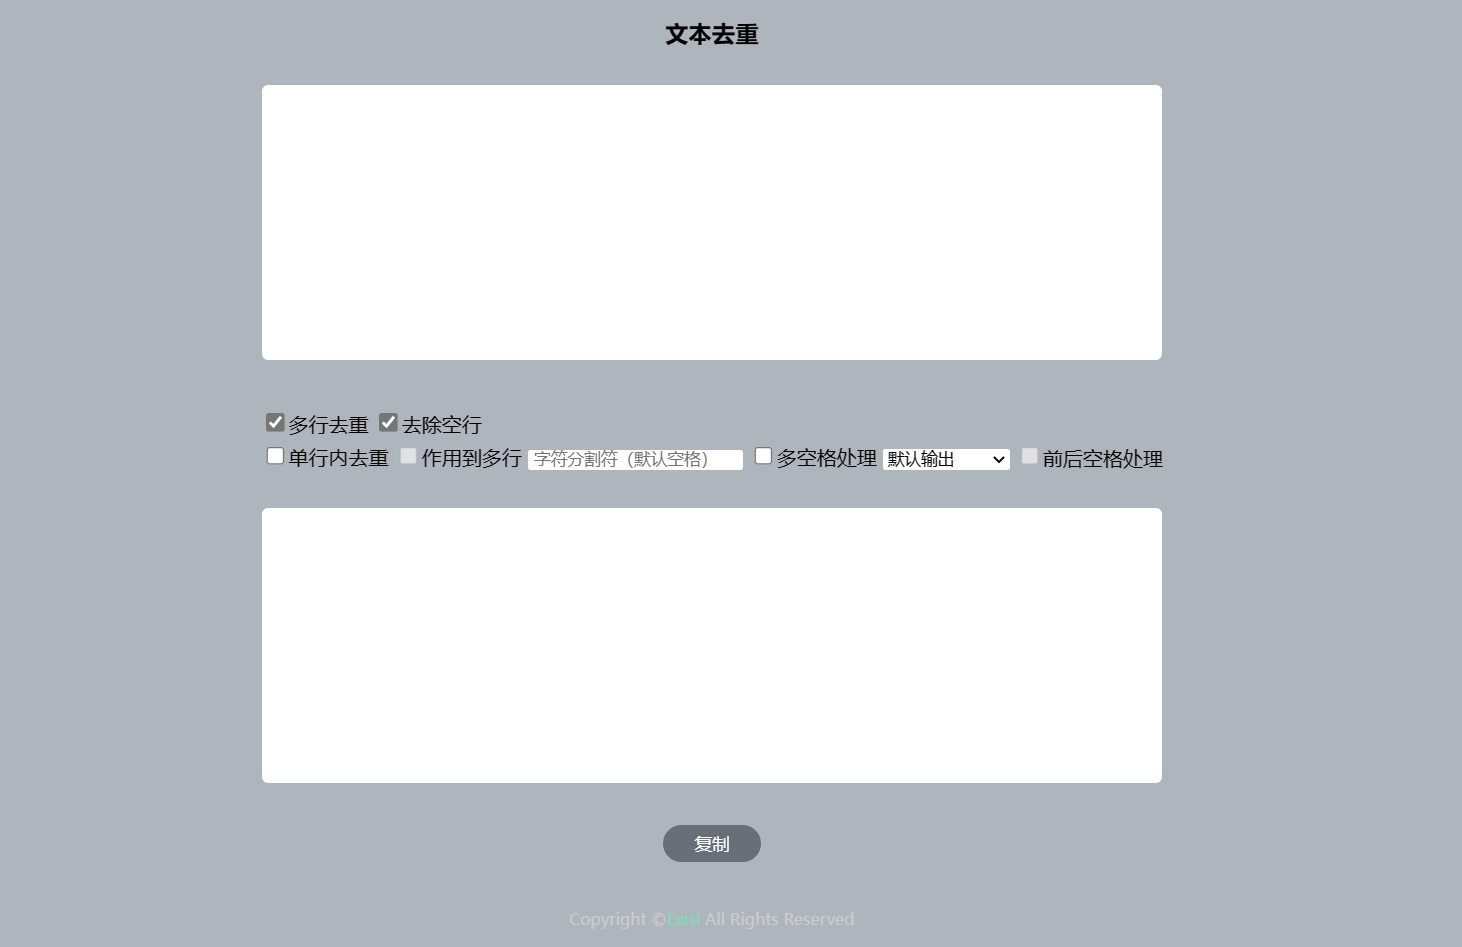
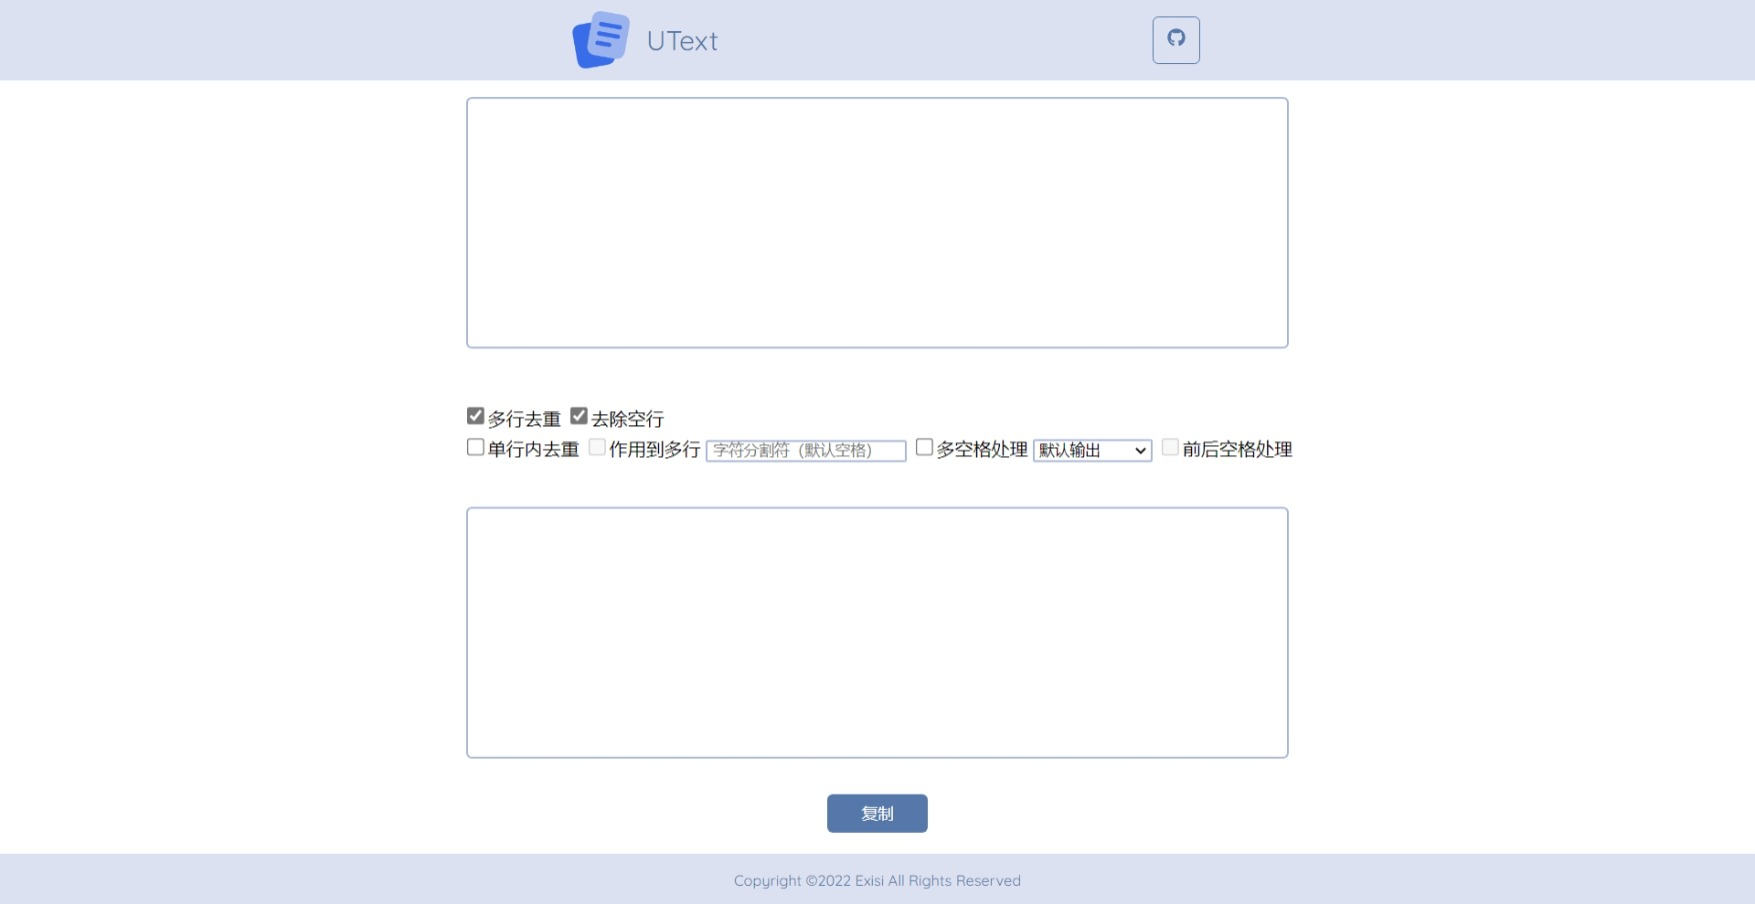
🌈 style(style.css): 优化布局样式

diff --git a/index.html b/index.html
@@ -1,75 +1,73 @@
 <!DOCTYPE html>
 <html lang="en">
-	<head>
-		<meta charset="UTF-8" />
-		<meta http-equiv="X-UA-Compatible" content="IE=edge" />
-		<meta name="viewport" content="width=device-width, initial-scale=1.0" />
-		<title>UText - 文本去重工具</title>
-		<link rel="shortcut icon" href="./favicon.ico" type="image/x-icon" />
-		<link rel="stylesheet" href="./css/style.css" />
-	</head>
-	<body>
-		<h3>文本去重</h3>
+
+<head>
+	<meta charset="UTF-8" />
+	<meta http-equiv="X-UA-Compatible" content="IE=edge" />
+	<meta name="viewport" content="width=device-width, initial-scale=1.0" />
+	<title>UText - 文本去重工具</title>
+	<link rel="shortcut icon" href="./favicon.ico" type="image/x-icon" />
+	<link rel="stylesheet" href="./css/style.css" />
+</head>
+
+<body>
+	<div class="header">
+		<div class="left">
+			<img src="./favicon.ico">
+			<span>UText</span>
+		</div>
+		<div class="right">
+			<a target="_blank" rel="noopener" class="chakra-link chakra-button css-15pwpr1" aria-label="GitHub"
+				href="https://github.com/Exisi/UText">
+				<svg stroke="currentColor" fill="currentColor" stroke-width="0" viewBox="0 0 496 512" aria-hidden="true"
+					focusable="false" height="1em" width="1em" xmlns="http://www.w3.org/2000/svg">
+					<path
+						d="M165.9 397.4c0 2-2.3 3.6-5.2 3.6-3.3.3-5.6-1.3-5.6-3.6 0-2 2.3-3.6 5.2-3.6 3-.3 5.6 1.3 5.6 3.6zm-31.1-4.5c-.7 2 1.3 4.3 4.3 4.9 2.6 1 5.6 0 6.2-2s-1.3-4.3-4.3-5.2c-2.6-.7-5.5.3-6.2 2.3zm44.2-1.7c-2.9.7-4.9 2.6-4.6 4.9.3 2 2.9 3.3 5.9 2.6 2.9-.7 4.9-2.6 4.6-4.6-.3-1.9-3-3.2-5.9-2.9zM244.8 8C106.1 8 0 113.3 0 252c0 110.9 69.8 205.8 169.5 239.2 12.8 2.3 17.3-5.6 17.3-12.1 0-6.2-.3-40.4-.3-61.4 0 0-70 15-84.7-29.8 0 0-11.4-29.1-27.8-36.6 0 0-22.9-15.7 1.6-15.4 0 0 24.9 2 38.6 25.8 21.9 38.6 58.6 27.5 72.9 20.9 2.3-16 8.8-27.1 16-33.7-55.9-6.2-112.3-14.3-112.3-110.5 0-27.5 7.6-41.3 23.6-58.9-2.6-6.5-11.1-33.3 2.6-67.9 20.9-6.5 69 27 69 27 20-5.6 41.5-8.5 62.8-8.5s42.8 2.9 62.8 8.5c0 0 48.1-33.6 69-27 13.7 34.7 5.2 61.4 2.6 67.9 16 17.7 25.8 31.5 25.8 58.9 0 96.5-58.9 104.2-114.8 110.5 9.2 7.9 17 22.9 17 46.4 0 33.7-.3 75.4-.3 83.6 0 6.5 4.6 14.4 17.3 12.1C428.2 457.8 496 362.9 496 252 496 113.3 383.5 8 244.8 8zM97.2 352.9c-1.3 1-1 3.3.7 5.2 1.6 1.6 3.9 2.3 5.2 1 1.3-1 1-3.3-.7-5.2-1.6-1.6-3.9-2.3-5.2-1zm-10.8-8.1c-.7 1.3.3 2.9 2.3 3.9 1.6 1 3.6.7 4.3-.7.7-1.3-.3-2.9-2.3-3.9-2-.6-3.6-.3-4.3.7zm32.4 35.6c-1.6 1.3-1 4.3 1.3 6.2 2.3 2.3 5.2 2.6 6.5 1 1.3-1.3.7-4.3-1.3-6.2-2.2-2.3-5.2-2.6-6.5-1zm-11.4-14.7c-1.6 1-1.6 3.6 0 5.9 1.6 2.3 4.3 3.3 5.6 2.3 1.6-1.3 1.6-3.9 0-6.2-1.4-2.3-4-3.3-5.6-2z">
+					</path>
+				</svg>
+			</a>
+		</div>
+	</div>
+	<div class="main">
+
 		<div id="top">
-			<textarea
-				name="input_text"
-				id="input"
-				class="text"
-				cols="30"
-				rows="10"></textarea>
+			<textarea name="input_text" id="input" class="text" cols="30" rows="10"></textarea>
 		</div>
 		<div id="center">
 			<span class="row">
 				<input type="checkbox" name="line" class="row-rule" checked />多行去重
-				<input
-					type="checkbox"
-					name="row-blank"
-					class="row-rule"
-					checked />去除空行
+				<input type="checkbox" name="row-blank" class="row-rule" checked />去除空行
 			</span>
 			<sapn class="in">
 				<input type="checkbox" name="inline" class="inline-rule" />单行内去重
 				<input type="checkbox" name="torow" class="inline-rule" />作用到多行
 			</sapn>
-			<input
-				type="text"
-				id="split"
-				name="split"
-				class="split"
-				placeholder="字符分割符（默认空格）" />
+			<input type="text" id="split" name="split" class="split" placeholder="字符分割符（默认空格）" />
 			<sapn>
-				<input
-					type="checkbox"
-					name="blank"
-					class="inline-rule blank" />多空格处理
+				<input type="checkbox" name="blank" class="inline-rule blank" />多空格处理
 			</sapn>
 			<select name="type" id="output-type" class="in select">
 				<option value="0">默认输出</option>
 				<option value="1">输出为单行</option>
 				<option value="2">输出一词一行</option>
 			</select>
-			<input
-				type="checkbox"
-				name="blank"
-				class="inline-rule pre-suf-blank" />前后空格处理
+			<input type="checkbox" name="blank" class="inline-rule pre-suf-blank" />前后空格处理
 		</div>
 		<div id="bottom">
-			<textarea
-				name="output_text"
-				id="output"
-				class="text"
-				cols="30"
-				rows="10"
-				readonly></textarea>
+			<textarea name="output_text" id="output" class="text" cols="30" rows="10" readonly></textarea>
 		</div>
-		<button id="copy">复制</button>
+		<div class="box-btn">
+			<button id="copy">复制</button>
+		</div>
+	</div>
 
-		<footer class="footer">
-			<p>
-				Copyright ©<a href="https://www.exi.ink">Exisi</a> All Rights Reserved
-			</p>
-		</footer>
-		<script src="./js/deduplicate.js"></script>
-		<script src="./js/copy.js"></script>
-	</body>
+	<div class="footer">
+		<p>
+			Copyright ©2022 <a href="https://www.exi.ink">Exisi</a> All Rights Reserved
+		</p>
+	</div>
+	<script src="./js/deduplicate.js"></script>
+	<script src="./js/copy.js"></script>
+</body>
+
 </html>

diff --git a/css/style.css b/css/style.css
@@ -1,18 +1,63 @@
+@font-face {
+	font-family: Quicksand;
+	src: url(../font/Quicksand.woff2);
+}
+
 a {
-	color: rgb(123, 224, 185);
+	color: #57a;
 	text-decoration: none;
 }
 
 body {
+	font-family: Quicksand;
+	margin: 0;
+	padding: 0;
+	background: #fff;
+	display: flex;
+	flex-direction: column;
+	min-height: 100vh;
+}
+
+.header {
+	background: #dbe1f1;
+	padding: 5px;
+	display: flex;
+	flex-direction: row;
+	justify-content: center;
+	align-items: center;
+}
+
+.left,
+.right {
+	margin: 0 190px;
+	display: flex;
+	justify-content: center;
+	align-items: center;
+}
+
+.header > .left > img {
+	width: 60px;
+	height: 60px;
+	margin: 0 10px;
+}
+
+.header > .left > span {
+	font-size: 150%;
+	color: #57a;
+}
+
+.header > .right > .chakra-link {
+	padding: 10px 12px;
+	border: 1px solid #57a;
+	border-radius: 5px;
+}
+
+.main {
 	display: flex;
 	flex-direction: column;
 	justify-content: center;
 	align-items: center;
-	background: #afb5bd;
-}
-
-h3 {
-	margin: 15px;
+	flex: 1;
 }
 
 #top,
@@ -31,7 +76,7 @@ h3 {
 	border-radius: 5px;
 	resize: none;
 	box-sizing: border-box;
-	border: none;
+	border: 2px solid #a9b6da;
 }
 
 .row {
@@ -39,38 +84,45 @@ h3 {
 	margin: 5px 0;
 }
 
+.box-btn {
+	width: 100%;
+	height: 40px;
+	display: flex;
+	align-items: center;
+	justify-content: center;
+}
+
 #copy {
 	border: none;
 	font-size: 14px;
-	border-radius: 100px;
-	padding: 5px 25px;
-	margin: 15px;
-	background: rgb(105, 111, 121);
+	border-radius: 5px;
+	padding: 7px 30px;
+	background: #57a;
 	color: #fff;
 }
 
 #copy-ok {
-	background: #57a;
+	background: #dbe1f1;
 	border: #fff 1px solid;
-	box-sizing: border-box;
 	font-size: 14px;
-	border-radius: 100px;
-	padding: 5px 25px;
-	margin: 15px;
-	color: #fff;
+	border-radius: 5px;
+	padding: 7px 30px;
+	color: #57a;
 }
 
 .footer {
-	padding: 10px 20px 10px 20px;
 	text-align: center;
-	font-size: 12px;
-	color: #ccc;
+	font-size: 80%;
+	color: #57a;
+	margin-top: 15px;
+	padding: 2px;
+	background: #dbe1f1;
 }
 
 .split {
 	outline: none;
 	border-radius: 2px;
-	border: none;
+	border: 2px solid #a9b6da;
 	padding: 0 5px;
 }
 
@@ -81,16 +133,30 @@ h3 {
 }
 
 #output-type {
-	border: none;
+	border: 2px solid #a9b6da;
 	border-radius: 2px;
 	outline: none;
 }
 
-@media (max-width: 720px) {
+.right > a:hover {
+	background: #ecf0fa;
+}
+
+.right > a:active {
+	background: #dbe1f1;
+}
+
+@media (max-width: 750px) {
 	.text {
-		width: 600px;
+		width: 650px;
 	}
 
+	#center {
+		margin: 0 45px;
+	}
+}
+
+@media (max-width: 720px) {
 	.in {
 		display: block;
 		margin: 5px 0;
@@ -119,8 +185,23 @@ h3 {
 }
 
 @media (max-width: 660px) {
+	.left,
+	.right {
+		margin: 0 50px;
+	}
+
+	.header > .left > img {
+		width: 50px;
+		height: 50px;
+	}
+
+	.header > .left > span {
+		font-size: 120%;
+	}
+
 	.text {
 		width: 100%;
+		height: 160px;
 	}
 
 	.in {
@@ -131,5 +212,9 @@ h3 {
 	.split,
 	.blank {
 		margin: 5px 0;
+	}
+
+	.footer {
+		padding: 1px;
 	}
 }
